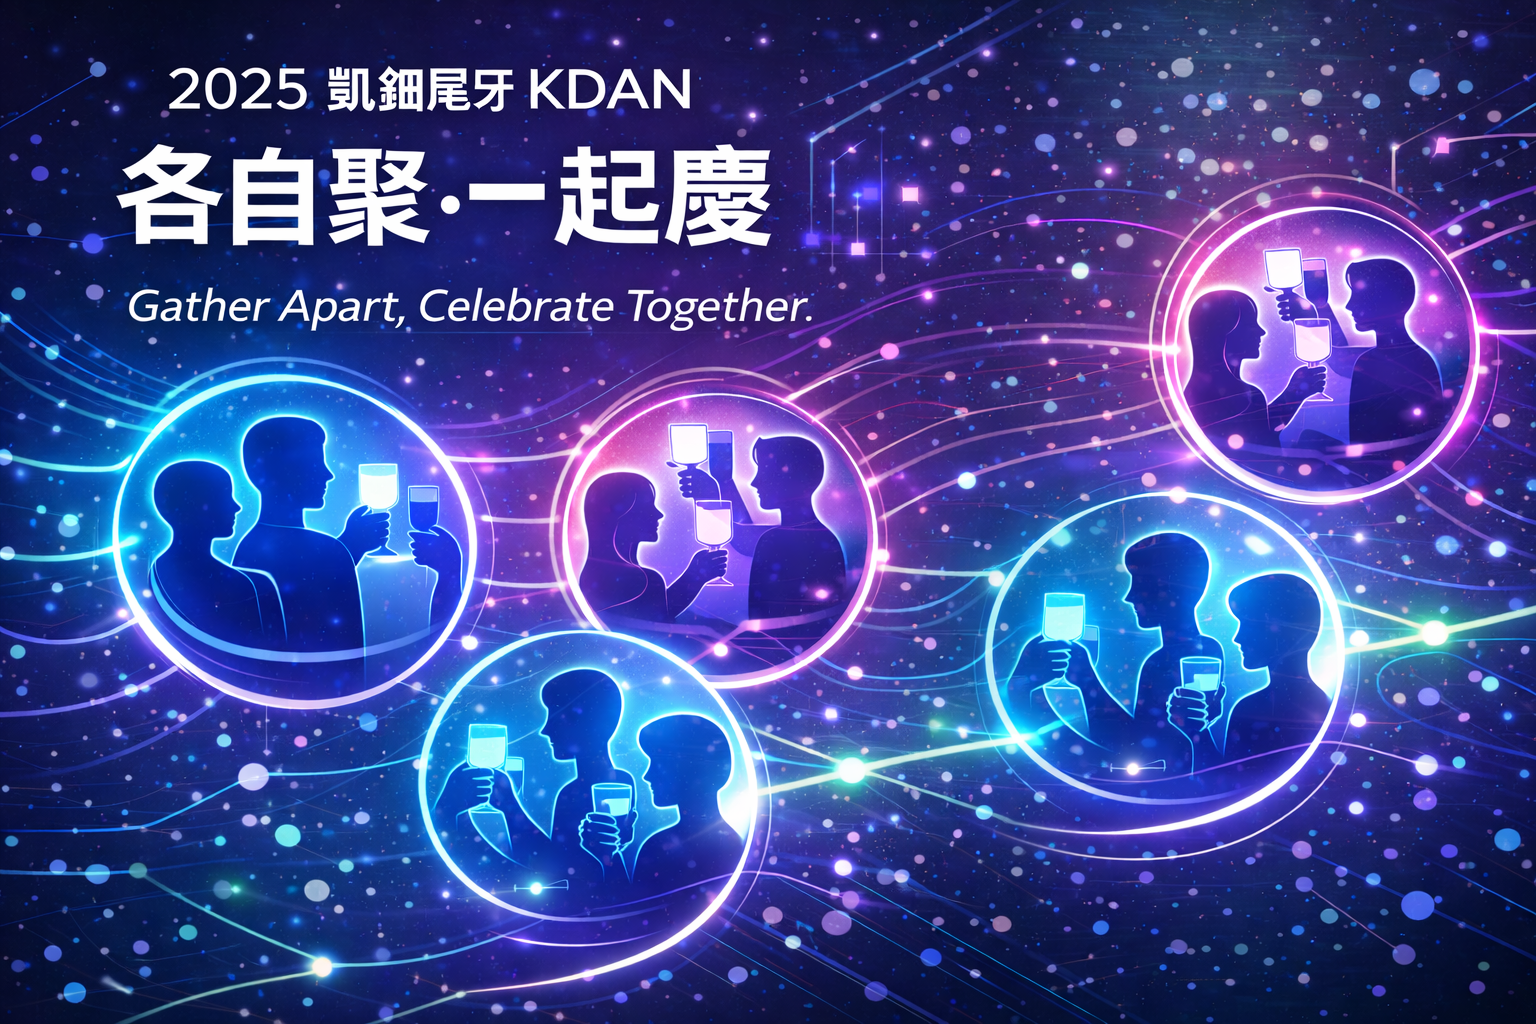
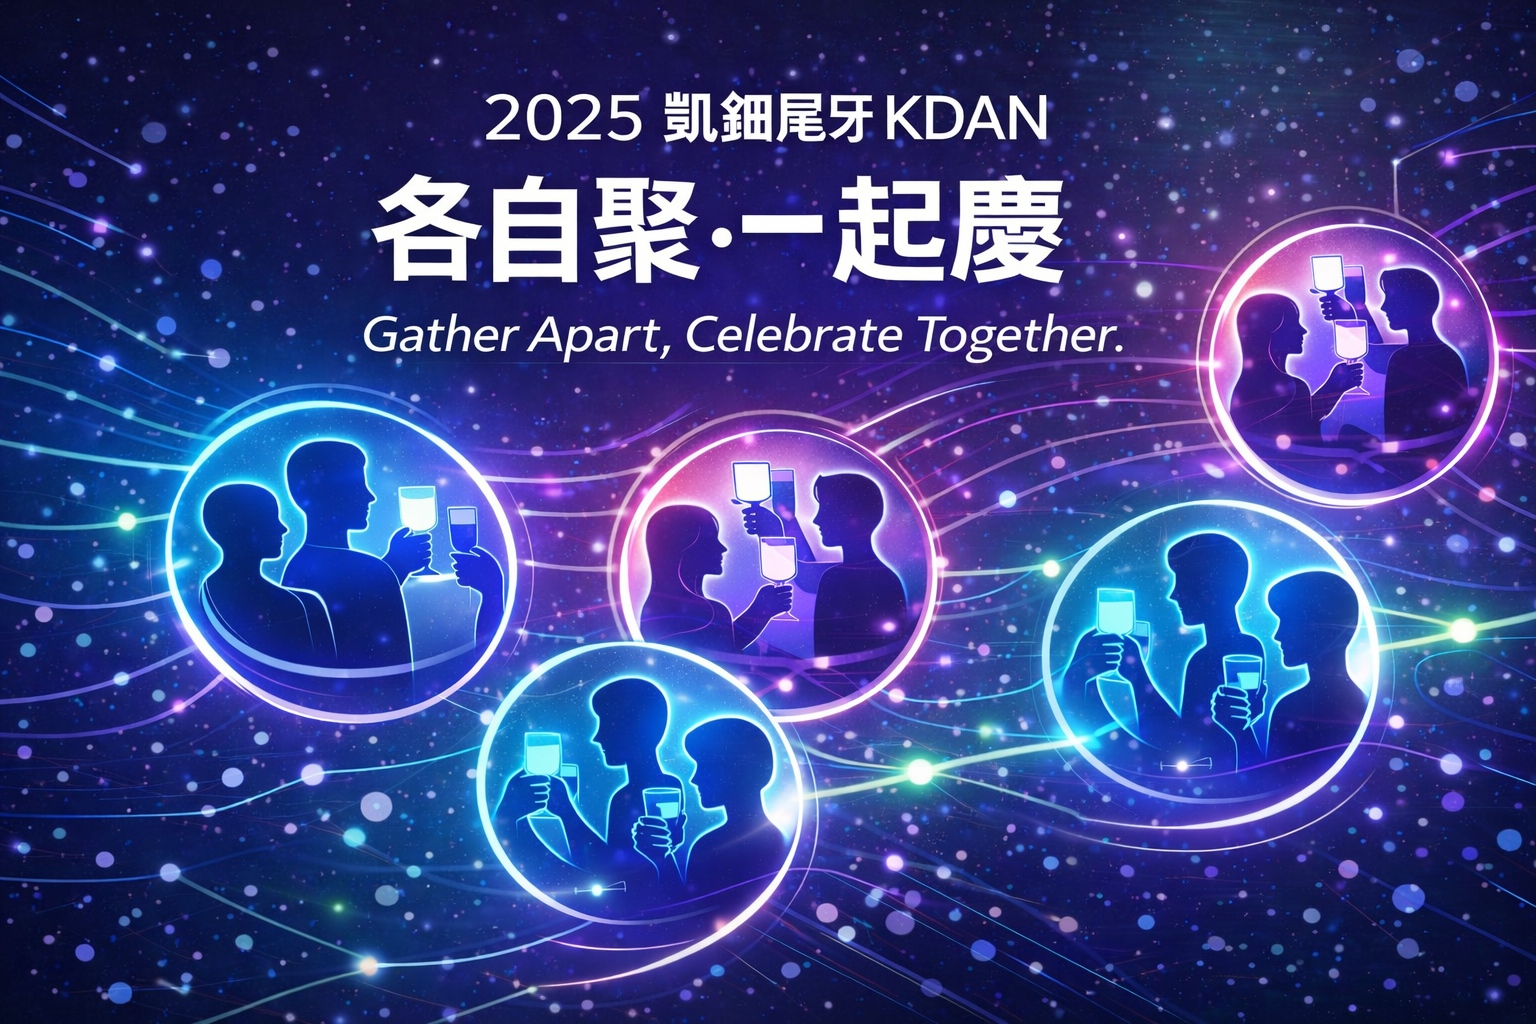
fix(lottery): remove ticket list and use user input only

diff --git a/pages/index.jsx b/pages/index.jsx
@@ -189,6 +189,12 @@ export default function Home() {
         return;
       }
 
+      if (restList.length < activePrize.pickOutCount) {
+        alert('抽獎名單數量不足，無法抽出預定人數。');
+        dispatch(setActive(false));
+        return;
+      }
+
       for (let index = 0; index < activePrize.pickOutCount; index++) {
         if (restList.length) {
           const luckyNum = Math.floor(Math.random() * restList.length);

diff --git a/components/NameList/index.jsx b/components/NameList/index.jsx
@@ -337,7 +337,7 @@ const NameList = () => {
         .split(",")
         .map((name) => name.trim())
         .filter((name) => name !== "");
-      const randomList = shuffle(lotteryList.concat(list));
+      const randomList = shuffle(list);
       dispatch(setLotteryList(randomList));
     }
   };
